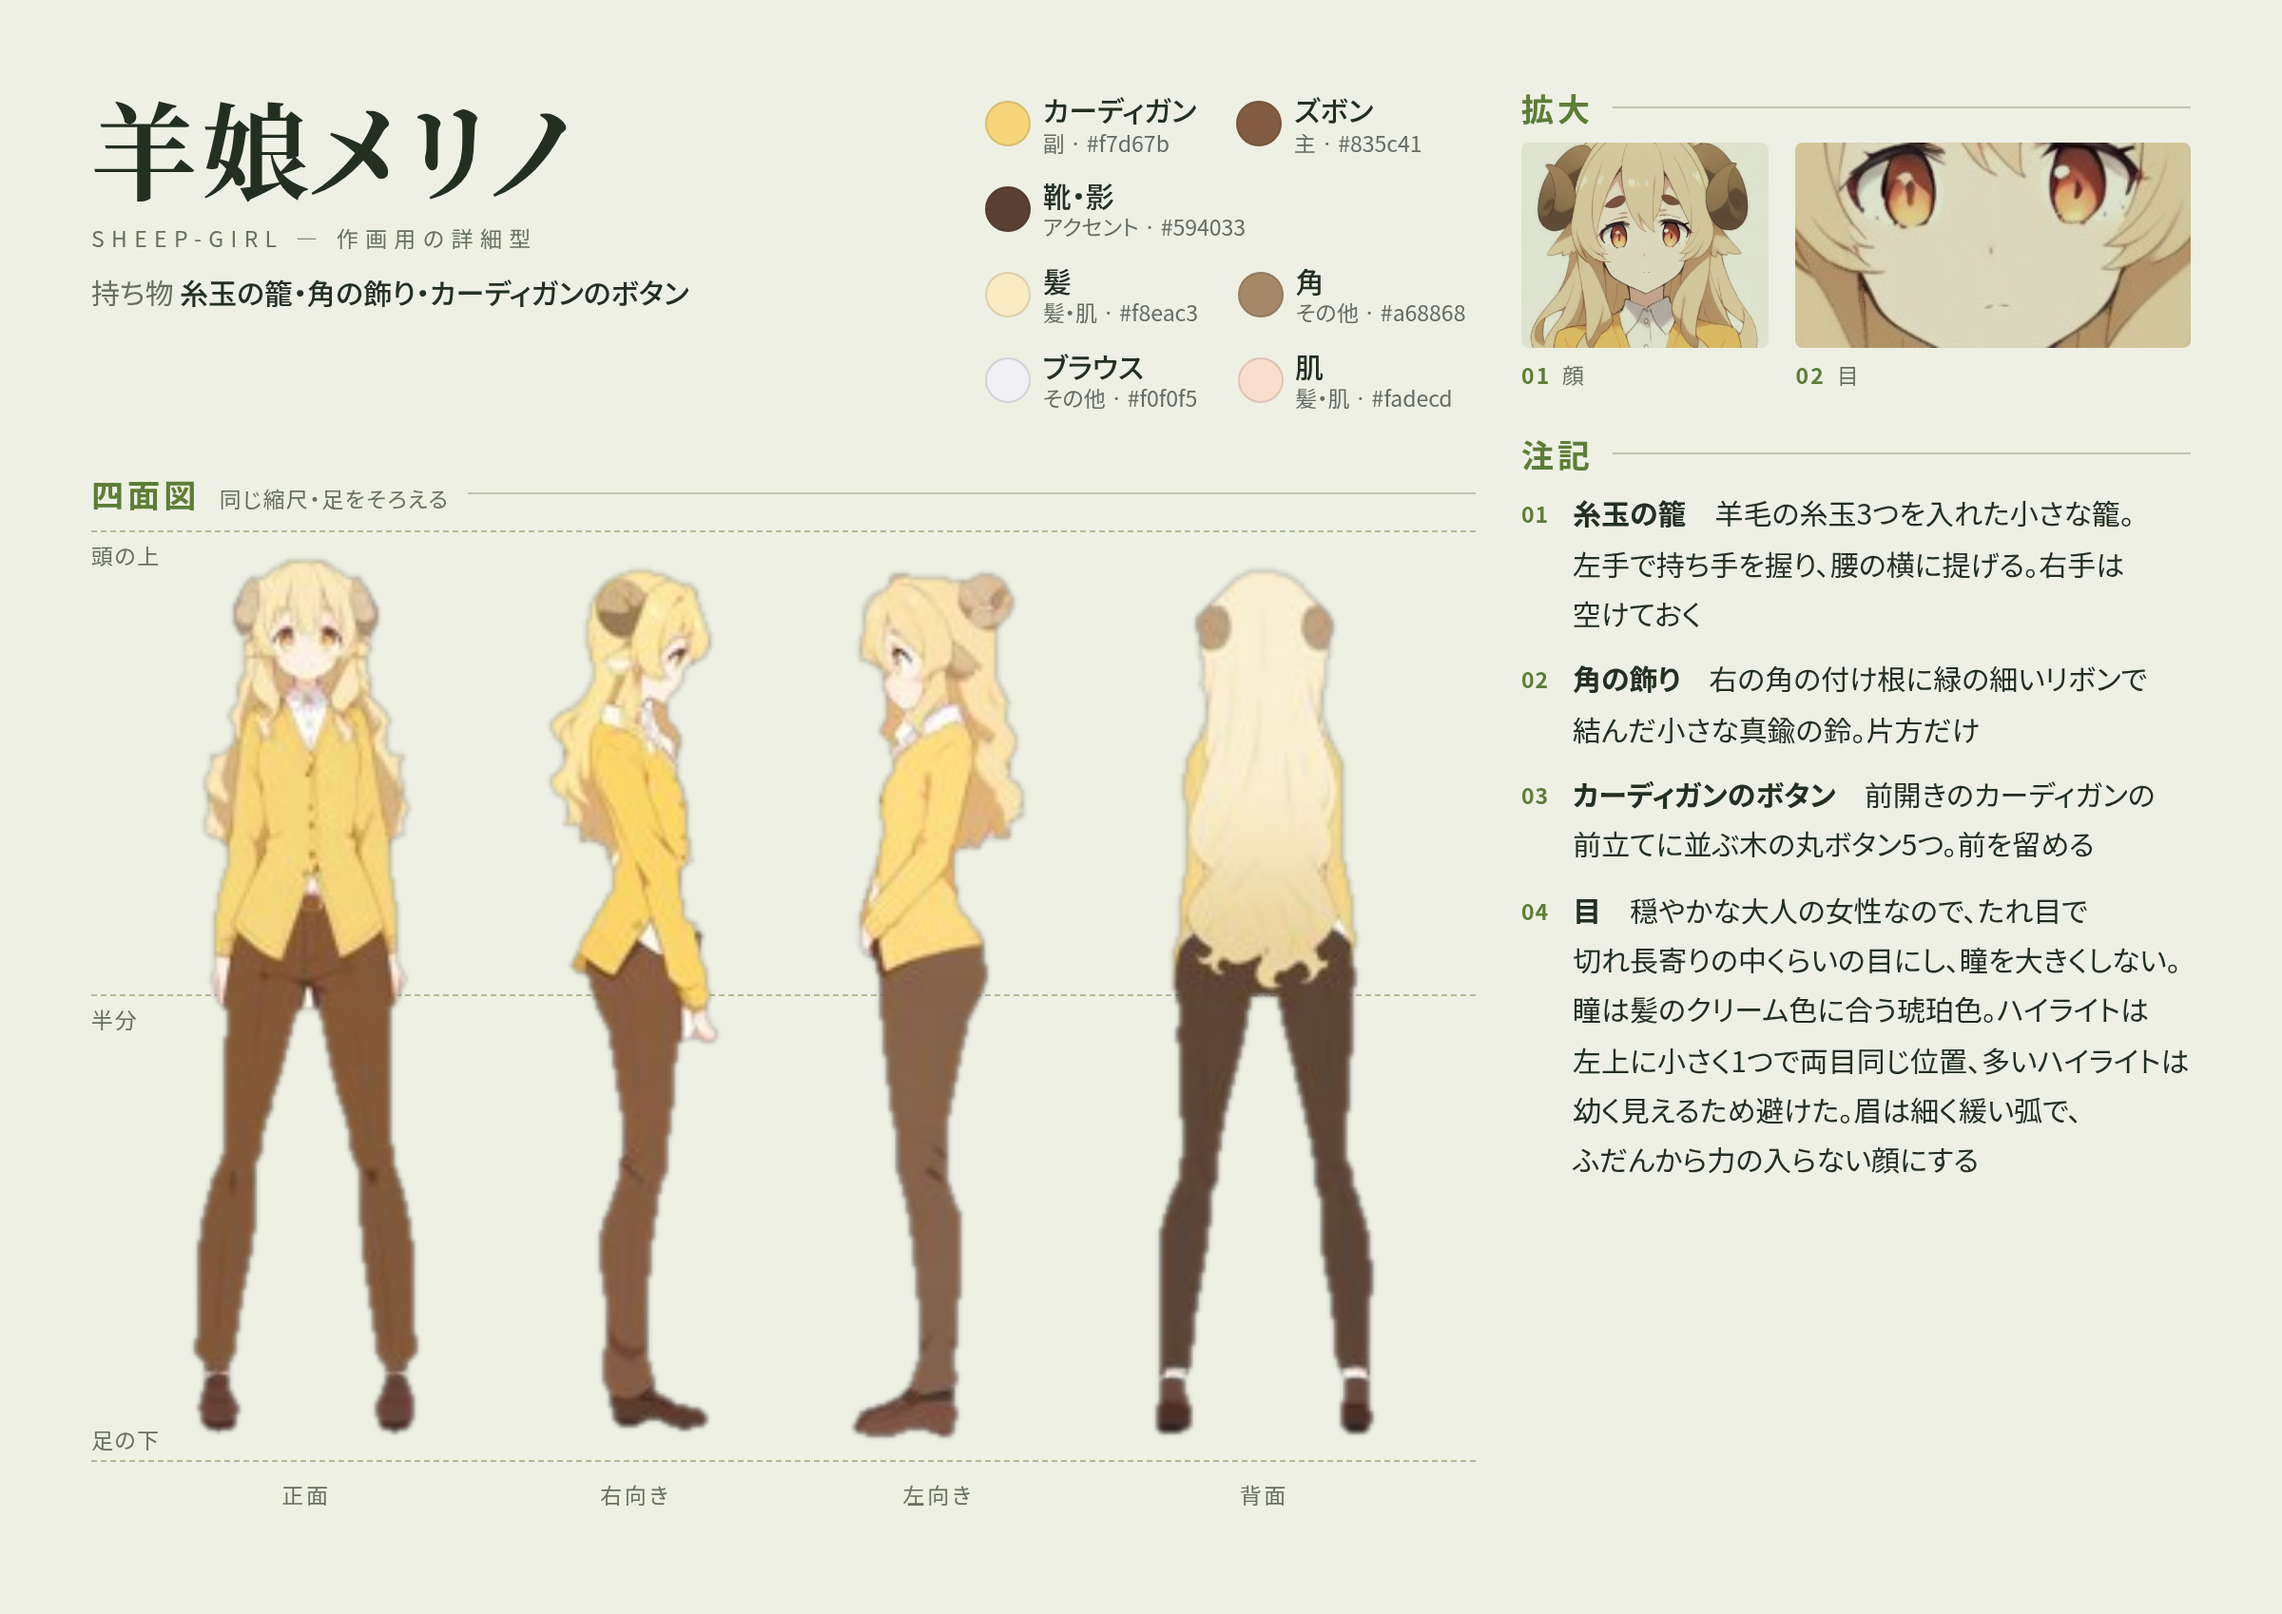
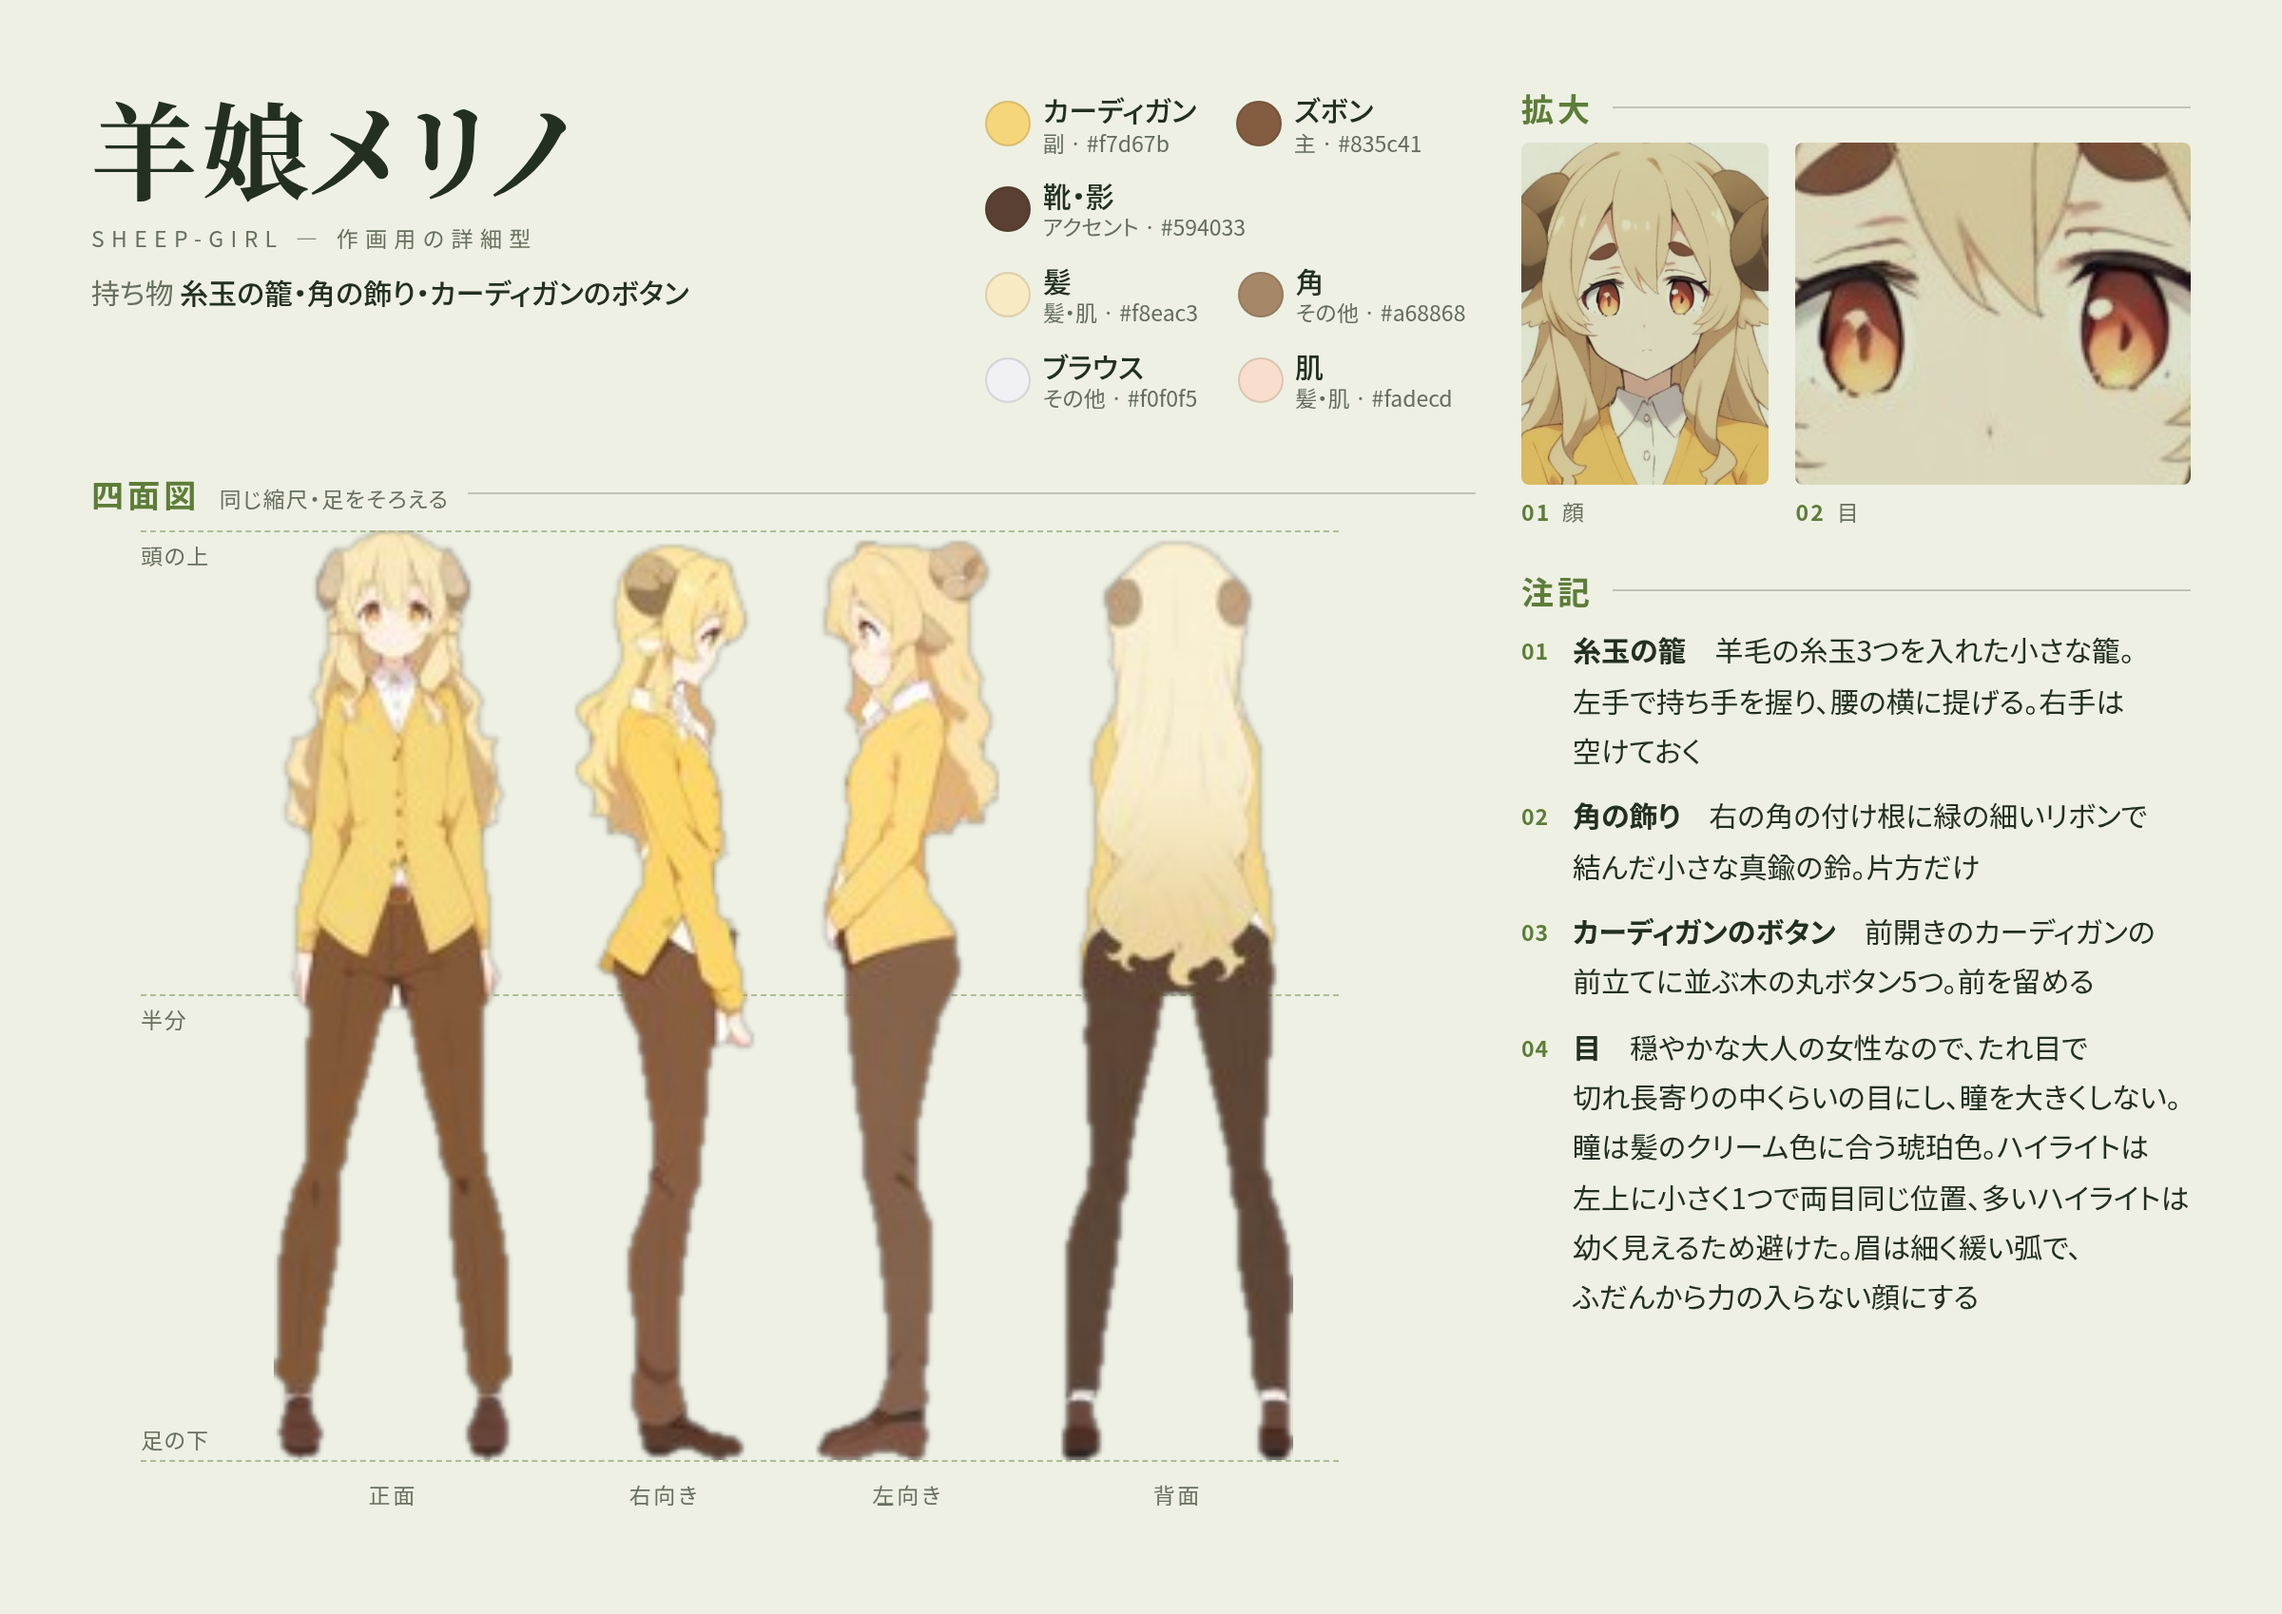
設定画集の版を批評の2周目の指摘で直す
高さの線を人物の周りだけに引く、長い注記だけ全幅にする、凡例の行ごとの数をそろえる、
足の位置を薄い縁を除いてそろえる、目の拡大の位置、総覧型の表情を 3x2 に戻す。

Claude-Session: https://claude.ai/code/session_01SckJ2FC4PhB88prMhjDTEV

Changed region(s): [[0.0625, 0.3121, 0.625, 0.9364], [0.6562, 0.0624, 0.9688, 0.8115], [0.5, 0.3121, 0.5312, 0.3433]]

diff --git a/tools/gen/sheetlayout.py b/tools/gen/sheetlayout.py
@@ -96,7 +96,7 @@ def _callouts(ident, c):
     f = cs.FACE_CROP
     # 目は顔の切り抜きの中の割合で取る。胸から上の絵の割合（EYE_CROP）は絵によって顔の高さが違い、騎士では鼻と口を切り出した
     fw, fh = f[2] - f[0], f[3] - f[1]
-    eye = (f[0] + fw * 0.08, f[1] + fh * 0.40, f[0] + fw * 0.92, f[1] + fh * 0.66)
+    eye = (f[0] + fw * 0.08, f[1] + fh * 0.30, f[0] + fw * 0.92, f[1] + fh * 0.58)
     return [("顔", crop(f)), ("目", crop(eye))]
 
 
@@ -144,7 +144,7 @@ body{background:var(--page);color:var(--ink);font-family:var(--font);font-weight
 .fit{flex:1;position:relative;min-height:0}
 .fit img{position:absolute;display:block}
 .shadow{position:absolute;border-radius:50%;background:radial-gradient(closest-side, color-mix(in srgb, var(--ink) 18%, transparent), transparent)}
-.guide{position:absolute;left:0;right:0;height:0;border-top:1px dashed color-mix(in srgb, var(--accent) 45%, transparent)}
+.guide{position:absolute;height:0;border-top:1px dashed color-mix(in srgb, var(--accent) 45%, transparent)}
 .guide.up span{top:auto;bottom:4px}
 .guide span{position:absolute;left:0;top:4px;font-size:var(--t-note);color:var(--sub);letter-spacing:.06em}
 .cap{position:absolute;font-size:var(--t-note);color:var(--sub);letter-spacing:.12em;transform:translateX(-50%);white-space:nowrap}
@@ -157,6 +157,7 @@ body{background:var(--page);color:var(--ink);font-family:var(--font);font-weight
 .notes li{counter-increment:n;display:grid;grid-template-columns:1.8em 1fr;margin-bottom:.55em}
 .notes li::before{content:counter(n,decimal-leading-zero);color:var(--accent);font-weight:700;font-size:var(--t-note);padding-top:.25em;letter-spacing:.04em}
 .notes b{font-weight:700}
+.notes li.wide{grid-column:1 / -1}
 .chips{display:flex;flex-wrap:wrap;gap:calc(var(--t-body) * .7) calc(var(--t-body) * 1.4)}
 .chip{display:flex;align-items:center;gap:.55em;font-size:var(--t-note);color:color-mix(in srgb, var(--ink) 68%, var(--page));line-height:1.3}
 .chip i{width:calc(var(--t-body) * 1.6);height:calc(var(--t-body) * 1.6);border-radius:50%;flex:none;
@@ -207,7 +208,9 @@ JS = r"""
     }
     if (box.dataset.guides) {
       for (const [name, t] of [['頭の上', 0], ['半分', 0.5], ['足の下', 1]]) {
+        // 線は人物の左右に少し出すだけにする。区画の幅いっぱいに引くと、2人だけの図で左右の空きが目立った
         const g = document.createElement('div'); g.className = t === 1 ? 'guide up' : 'guide'; g.style.top = (y + h * t) + 'px';
+        g.style.left = Math.max(0, x - 70) + 'px'; g.style.right = Math.max(0, W - x - w - 24) + 'px';
         g.innerHTML = `<span>${name}</span>`; box.insertBefore(g, img);
       }
     }
@@ -291,8 +294,12 @@ def _panel_html(pn, ctx):
         if pn.get("brief"):   # 総覧では各注記の最初の一文だけにする。全文は作画用の版に載せる（狭い欄に全文を詰めると欄からあふれた）
             notes = [t.split("。")[0] for t in notes]
         lis = "".join(f'<li><span><b>{e(t.split(": ", 1)[0])}</b>　{e(t.split(": ", 1)[1] if ": " in t else "")}</span></li>' for t in notes)
-        colstyle = f' style="column-count:{pn["columns"]};column-gap:var(--g)"' if pn.get("columns") else ""
-        return lab(pn.get("title", "")) + f'<ol class="notes"{colstyle}>{lis}</ol>'
+        if pn.get("columns"):
+            # 2段に組み、長い注記（60字より長い）だけ全幅の1段にする。段組みに流すと左右の段の行数が偏った
+            lis = "".join(f'<li{" class=wide" if len(t) > 60 else ""}><span><b>{e(t.split(": ", 1)[0])}</b>　{e(t.split(": ", 1)[1] if ": " in t else "")}</span></li>'
+                          for t in notes)
+            return lab(pn.get("title", "")) + f'<ol class="notes" style="display:grid;grid-template-columns:repeat({pn["columns"]},1fr);column-gap:var(--g)">{lis}</ol>'
+        return lab(pn.get("title", "")) + f'<ol class="notes">{lis}</ol>'
     if k in ("sharebar", "strip"):
         sw = sorted(ctx["sw"], key=lambda s: -s["share"])
         tot = sum(s["share"] for s in sw) or 1
@@ -300,7 +307,8 @@ def _panel_html(pn, ctx):
         # 帯の中に名前を書くと細い区画で名前がぶつかったので、名前と割合は帯の下に並べる
         leg = "".join(f'<div class="chip"><i style="background:{s["hex"]}"></i><div>{e(s["name"])} {s["share"] / tot * 100:.0f}%</div></div>' for s in sw)
         bar = "strip" if k == "strip" else "sbar"
-        return lab(pn.get("title", ""), pn.get("sub", "")) + f'<div class="{bar}">{segs}</div><div class="chips sleg">{leg}</div>'
+        per = len(sw) if len(sw) <= 6 or k == "strip" else -(-len(sw) // 2)   # 2行になるときは行ごとの数をそろえる（2行目が1つだけになった）
+        return lab(pn.get("title", ""), pn.get("sub", "")) + f'<div class="{bar}">{segs}</div><div class="chips sleg" style="display:grid;grid-template-columns:repeat({per},auto);justify-content:start">{leg}</div>'
     if k == "callouts":
         cl = _callouts(ctx["ident"], c)
         if not cl:
@@ -316,6 +324,8 @@ def _row(figs, gap=0.32):
     from PIL import Image
     H = max(im.height for _, im in figs)
     same = all(n in ("正面", "背面", "右向き", "左向き") for n, _ in figs)   # 四面図の人物は元の縮尺のまま、ポーズと混ぜるときは高さをそろえる
+    figs = [(n, im.crop(im.getchannel("A").point(lambda v: 255 if v > 60 else 0).getbbox())) for n, im in figs]   # 薄い縁で足の位置がずれた
+    H = max(im.height for _, im in figs)
     scaled = [im if same or im.height == H else im.resize((round(im.width * H / im.height), H)) for _, im in figs]
     sp = int(sum(im.width for im in scaled) / len(scaled) * gap)
     W = sum(im.width for im in scaled) + sp * (len(scaled) - 1)
